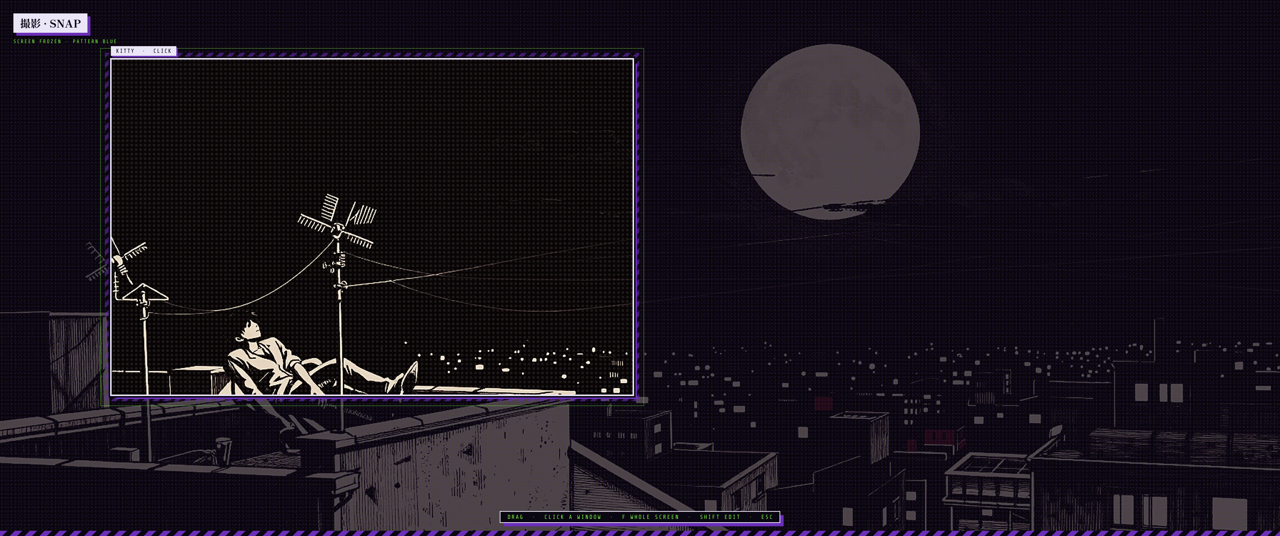
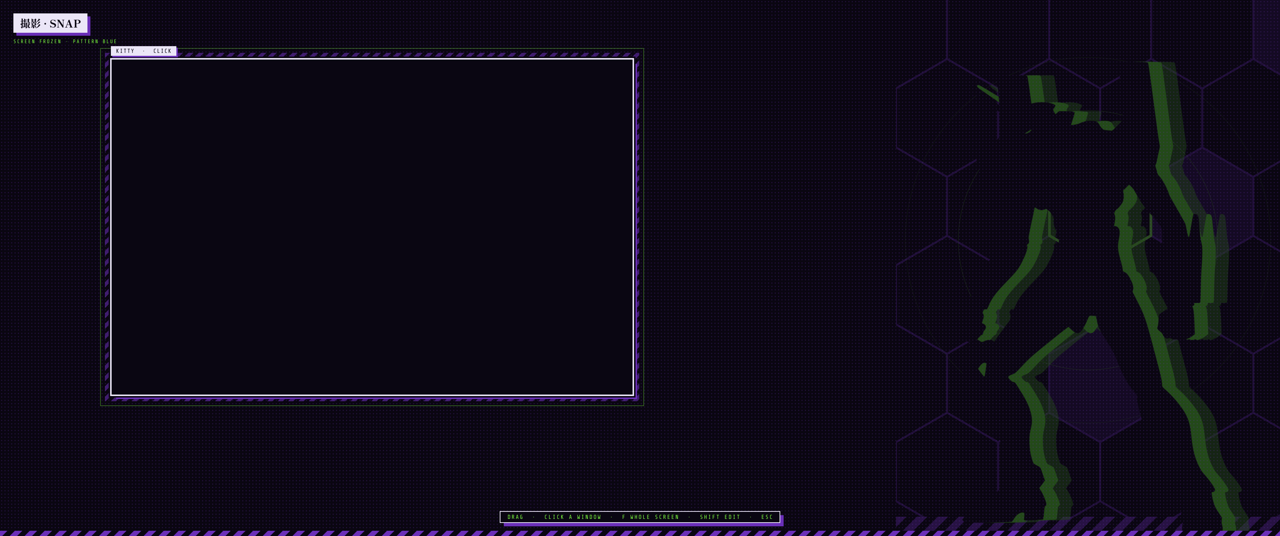
no bundled wallpapers; bar gets its own ground; new hero

diff --git a/tools/gen/gen.py b/tools/gen/gen.py
@@ -1,5 +1,5 @@
 #!/usr/bin/env python3
-"""Eva theme candidates with stable-diffusion.cpp + Z-Image-Turbo. usage: gen.py JOB... [--n 2] [--seed 1000]"""
+"""Figure candidates (silhouettes on white) with stable-diffusion.cpp + Z-Image-Turbo. usage: gen.py JOB... [--n 2] [--seed 1000]"""
 import argparse, subprocess, sys, time
 from pathlib import Path
 
@@ -12,12 +12,6 @@ SIL = ("A solid pure black silhouette of {what} on a perfectly flat, solid white
        "cropped, feet on the ground. Flat vector silhouette art, no shading, no details inside the silhouette, no text, no border.")
 UNIT01 = ("the giant humanoid mecha Evangelion Unit-01: slender tall humanoid robot body, a single long horn on the forehead, "
           "tall boxy shoulder pylons, narrow waist, long legs")
-INK = ("Dark screen-printed ink illustration on a jet-black background: mostly black, drawn with fine pale lavender-white "
-       "linework, cross-hatching and halftone dots, large areas filled with deep violet purple and one or two small accents of "
-       "acid neon green. Moody, high contrast, lots of black negative space, manga and Neon Genesis Evangelion inspired. "
-       "{frame} No text, no letters, no logos, no border, no frame.")
-WIDE = INK.format(frame="Ultra-wide panoramic framing.")
-TALL = INK.format(frame="Tall vertical portrait framing.")
 
 JOBS = {
     # figures (silhouettes)
@@ -28,22 +22,6 @@ JOBS = {
     "eva01_cross": (1152, 1152, SIL.format(what=UNIT01, pose="Crucified: nailed to a giant cross, seen exactly from the front, both arms stretched out straight and horizontal along the crossbeam at shoulder height, open hands, body hanging straight, legs together. The cross itself is white and invisible, only the robot is black.")),
     "eva01_arms_up": (1152, 1152, SIL.format(what=UNIT01, pose="Seen exactly from the front, both arms raised high and wide above its head in a V shape, open hands reaching to the sky, head tilted back roaring, legs apart.")),
     "eva01_tall": (768, 1792, SIL.format(what=UNIT01, pose="Standing tall and upright seen from the front, arms at the sides, looking up, feet apart.")),
-    # ultrawide wallpapers
-    "wp_unit01_moon": (1792, 768, "A close-up of the head of Evangelion Unit-01 in profile, long horn, jaw open roaring, a huge full moon behind it. " + WIDE),
-    "wp_unit01_hill": (1792, 768, "The giant mecha Evangelion Unit-01 standing on a hilltop at night, seen from far away as a dark silhouette with its horn and shoulder pylons, a colossal moon filling the sky behind it, a ruined city below. " + WIDE),
-    "wp_lilith": (1792, 768, "A colossal pale white giant with a seven-eyed purple mask, nailed to a huge black cross in a vast dark cavern, its legs dissolved into a lake of glowing liquid, tiny catwalks and spotlights in the distance. " + WIDE),
-    "wp_tokyo3": (1792, 768, "A futuristic city of skyscrapers in a wide valley at dusk, a giant glowing blue octahedron crystal floating in the sky above it, a drill beam of light shooting down from the crystal into the city, mountains behind. " + WIDE),
-    "wp_cross": (1792, 768, "A gigantic cross-shaped pillar of blinding light rising from a city on the sea at the horizon, shockwave rings of dust, a lone giant humanoid mecha silhouette in the foreground. " + WIDE),
-    "wp_sachiel": (1792, 768, "A tall thin humanoid angel with a bird-skull bone mask for a face and a glowing red sphere core in its chest, walking slowly through a city of skyscrapers, military helicopters around it, seen from below. " + WIDE),
-    "wp_lance": (1792, 768, "A giant red double-helix lance spiralling up into the night sky towards the moon, leaving a trail of light, seen from the ground past a ruined cityscape. " + WIDE),
-    "wp_atfield": (1792, 768, "A giant hexagonal honeycomb energy barrier glowing in the air, rippling outward from the clenched fist of a giant mecha pressing against it, hexagons fading into darkness. " + WIDE),
-    "wp_train": (1792, 768, "The empty interior of a commuter train at sunset, long rows of seats and hanging hand straps, harsh sunlight through the windows, one lone figure sitting alone at the far end. " + WIDE),
-    "wp_geofront": (1792, 768, "An enormous underground cavern with a lake and forests, a huge inverted black pyramid headquarters building standing on the lake, a city hanging from the cavern ceiling upside down, shafts of light from above. " + WIDE),
-    "wp_plug": (1792, 768, "The inside of a cylindrical cockpit capsule, a pilot's seat with twin control grips, the curved walls glowing with floating holographic readouts, the whole chamber filled with amber liquid. " + WIDE),
-    # portrait side monitor
-    "pt_unit01": (768, 1792, "The giant mecha Evangelion Unit-01 standing tall at night, seen from below, its horn and shoulder pylons against a colossal moon, ruined buildings at its feet. " + TALL),
-    "pt_sachiel": (768, 1792, "A tall thin humanoid angel with a bird-skull bone mask for a face and a glowing red sphere core in its chest, standing between skyscrapers, seen from below. " + TALL),
-    "pt_lilith": (768, 1792, "A colossal pale white giant with a seven-eyed purple mask nailed to a huge black cross in a dark cavern, seen from below, its legs dissolved into a glowing lake. " + TALL),
 }
 
 

diff --git a/tools/build_theme_assets.py b/tools/build_theme_assets.py
@@ -1,10 +1,9 @@
 #!/usr/bin/env python3
 """Build a theme's runtime assets (assets/themes/<name>/) from its generation folder.
 
-usage: tools/build_theme_assets.py THEME GEN_DIR [--figure cut/figure.png] [--herald RIG_DIR] [--wallpapers]
+usage: tools/build_theme_assets.py THEME GEN_DIR [--figure cut/figure.png] [--herald RIG_DIR]
   --figure      a silhouette RGBA (from tools/gen/sil.py): potrace-cleaned into figures/unit01.png
   --herald     a rig folder (from tools/gen/rig.py): body.png, arm_l.png, arm_r.png, rig.json copied in
-  --wallpapers every GEN_DIR/final/wp/png/*.png (3440x1440 from wallpaper.py) with the theme's halftone dots baked in
 """
 import shutil
 import sys
@@ -44,22 +43,3 @@ if "--herald" in args:
     for n in ("body.png", "arm_l.png", "arm_r.png", "rig.json"):
         shutil.copy(rig / n, out / n)
     print("herald rig copied")
-
-if "--wallpapers" in args:
-    out = A / "wallpapers"
-    out.mkdir(parents=True, exist_ok=True)
-    spacing = 12
-    dot_col = tuple(int(theme["colors"][theme["halftone"]][i:i + 2], 16) for i in (0, 2, 4))
-    dot = None
-    for src in sorted((gen / "final/wp/png").glob("*.png")):
-        im = Image.open(src).convert("RGB")
-        if dot is None or dot.size != im.size:
-            w, h = im.size
-            yy, xx = np.mgrid[0:h, 0:w]
-            fx, fy = (xx % spacing) - spacing / 2 + 0.5, (yy % spacing) - spacing / 2 + 0.5
-            d = np.hypot(fx, fy)
-            cov = np.clip(spacing * 0.30 + 0.5 - d, 0, 1) * 0.10
-            dot = Image.fromarray((cov * 255).astype(np.uint8))
-        im = Image.composite(Image.new("RGB", im.size, dot_col), im, dot)
-        im.save(out / f"{src.stem}.webp", "WEBP", quality=90, method=6)
-        print("wallpaper", src.stem)

diff --git a/tests/test_offline.py b/tests/test_offline.py
@@ -153,13 +153,15 @@ class Wallpapers(unittest.TestCase):
         from eva_desk.wallpaper import Wallpapers as W
         cfg = config.load("/nonexistent")
         cfg["wallpapers"]["named"] = {"scratch": "#000000"}
+        cfg["wallpapers"]["pool"] = ["~/x/two.png", "~/x/three.png"]
+        cfg["wallpapers"]["workspaces"] = {"1": "~/x/one.png"}
         w = W(cfg)
-        self.assertEqual(w.choice(1, "1"), "unit01_hill")
+        self.assertEqual(w.choice(1, "1"), "~/x/one.png")
         self.assertIn(w.choice(2, "2"), cfg["wallpapers"]["pool"])
         self.assertEqual(w.choice(-99, "scratch"), "#000000")
         self.assertIn(w.choice(5, "5"), cfg["wallpapers"]["pool"])
-        self.assertTrue(config.asset("unit01_moon").endswith("assets/wallpapers/unit01_moon.webp"))
-        self.assertTrue(Path(config.asset("unit01_moon")).exists())
+        self.assertEqual(config.asset("#0a0612"), "#0a0612")
+        self.assertTrue(config.asset("~/x/one.png").endswith("/x/one.png"))
 
 
 class Launcher(unittest.TestCase):

diff --git a/eva_desk/config.py b/eva_desk/config.py
@@ -43,14 +43,15 @@ DEFAULTS = {
         "transition": "fade",
         "duration": 0.9,
         "shuffle_minutes": 20,
-        "pool": ["unit01_moon", "lilith", "tokyo3", "cross", "sachiel", "lance", "atfield", "geofront", "train", "plug"],
-        "workspaces": {"1": "unit01_hill"},
+        "pool": [],               # your own images (paths); nothing is bundled
+        "workspaces": {},
         "named": {},              # named workspace -> image or "#rrggbb"
         "static": {},             # other monitors: description substring -> image
     },
     "bar": {
         "enabled": True,
         "height": 56,
+        "opacity": 0.94,          # the bar's ink ground over the wallpaper (0 = see-through, 1 = solid)
         "workspaces": 10,
         "hide_on_workspaces": [],
         "resources": ["cpu", "mem", "net"],   # resource tags left of the date; [] hides them

diff --git a/eva_desk/bar.py b/eva_desk/bar.py
@@ -67,6 +67,14 @@ class Bar:
         y = (h - th) / 2 - 2 * u
         self.hits = []
         st = self.state
+        ground = float(self.cfg["bar"].get("opacity", 0.94))
+        if ground > 0:                                   # the bar's own ground, so it reads on any wallpaper
+            d.rgba(cr, d.INK, ground)
+            cr.rectangle(0, 0, w, h)
+            cr.fill()
+            d.rgba(cr, d.col("ink4"), min(1.0, ground + 0.06))
+            cr.rectangle(0, h - 2 * u, w, 2 * u)
+            cr.fill()
 
         nerv = True
         pad = 24 * u

diff --git a/eva_desk/preview.py b/eva_desk/preview.py
@@ -86,7 +86,8 @@ def render_all(cfg, out, w=3440, h=1440):
     from .shot import Shot, backdrop
     import time as _t
     sh = Shot.__new__(Shot)
-    frozen = d.pixbuf_surface(C.asset("unit01_moon"))
+    frozen = cairo.ImageSurface(cairo.FORMAT_ARGB32, w, h)      # the frozen screen: the figure scene
+    S.figure_scene(cairo.Context(frozen), gb)
     sh.mons = [{"m": {}, "w": w, "h": h, "scale": 1, "frozen": frozen, "bg": backdrop(frozen, w, h)}]
     sh.pointer, sh.sel, sh.flash = (0, 0, 0), None, None
     sh.hover = (0, (300, 160, 1400, 900), "kitty")

diff --git a/README.md b/README.md
@@ -74,8 +74,8 @@ to `~/Pictures/Screenshots`.
 
 And the rest, in short:
 
-- **Wallpapers**: eleven scenes from the show (Unit-01 and the moon, Lilith, Ramiel over Tokyo-3, the cross,
-  Sachiel, the Lance, the A.T. field, the train, the Geofront, the entry plug), one per workspace, shuffled.
+- **Wallpapers**: one per workspace, shuffled from a pool of your own images. None are bundled; the show's
+  artwork is easy to find (wallhaven's "evangelion" tag has ultrawide and portrait pieces).
 - **Windows**: square corners, a slowly rotating lilac border, a hard purple shadow.
 - **Small things**: a critical notification shows a warning band under the bar. A new window gets one hexagon pulse.
   The clock digits slide at the minute. After thirty seconds of a maxed-out CPU the stage turns orange until
@@ -138,7 +138,7 @@ all work, and so do several monitors at once.
   wallpaper.
 - The space kept free for the figure defaults to `"auto"`: 30 % of the width on ultrawides, 24 % on 16:9
   and 16:10, 20 % on squarer screens. Put a number there to override it.
-- The bundled wallpapers are 3440x1440 and get centre-cropped elsewhere. Your own images can be any size.
+- Wallpapers can be any size; they are centre-cropped to the monitor.
 - Lock screen backgrounds are rendered per monitor. Run `tools/hyprlock_setup.py` again if you change your setup.
 
 ## Configuration
